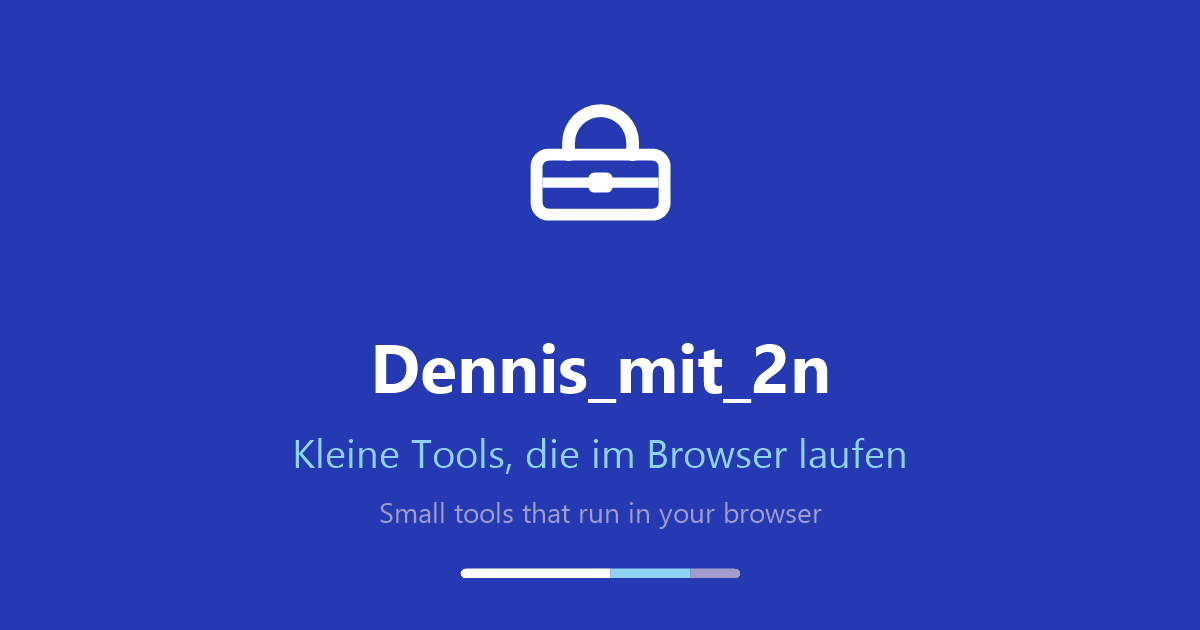
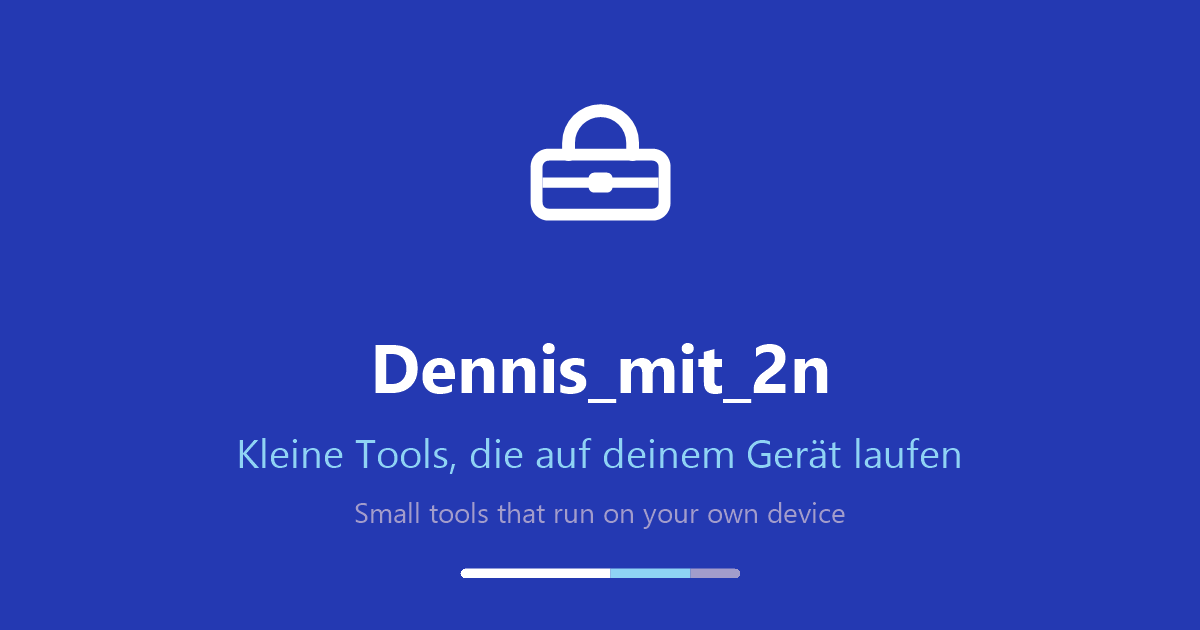
Überschrift verspricht nicht mehr „im Browser"
Mit Real_RAM_cooler ist das erste Werkzeug eine Windows-Anwendung — die H1
war damit unwahr. Neu: „Kleine Tools, die auf deinem Gerät laufen". Das deckt
Browser und Windows ab und hält weiter das Versprechen, dass die Daten das
Gerät nicht verlassen; es bleibt auch gültig, falls später eine Handy-App
dazukommt.

Geändert sind H1 und Seitentitel in allen zwölf Sprachen (je eine
Muttersprach-Übersetzung plus unabhängiger Review), Meta-Beschreibung und
og-Tags, der README-Einstieg sowie promo.png, in das der alte Satz
eingebrannt war.

Die Beschreibung von shrinkling nennt weiterhin den Browser — dieses
Werkzeug läuft ja tatsächlich dort.

Changed region(s): [[0.185, 0.6937, 0.8017, 0.754], [0.3083, 0.7841, 0.7092, 0.8444]]

diff --git a/js/i18n.js b/js/i18n.js
@@ -8,8 +8,8 @@
 var I18N = {
   de: {
     _name: 'Deutsch',
-    pageTitle: 'Dennis_mit_2n · Kleine Browser-Tools',
-    heroTitle: 'Kleine Tools, die im Browser laufen',
+    pageTitle: 'Dennis_mit_2n · Kleine Tools',
+    heroTitle: 'Kleine Tools, die auf deinem Gerät laufen',
     heroSubtitle: 'Eine Werkstatt von Dennis_mit_2n.',
     heroPledge: 'Qualität, Sicherheit und Privatsphäre stehen hier an erster Stelle – deine Daten bleiben auf deinem Gerät!',
     toolboxHeading: 'Die Werkzeugkiste',
@@ -36,8 +36,8 @@ var I18N = {
   },
   en: {
     _name: 'English',
-    pageTitle: 'Dennis_mit_2n · Small browser tools',
-    heroTitle: 'Small tools that run in your browser',
+    pageTitle: 'Dennis_mit_2n · Small tools',
+    heroTitle: 'Small tools that run on your own device',
     heroSubtitle: 'A workshop by Dennis_mit_2n.',
     heroPledge: 'Quality, security and privacy come first – your data stays on your device!',
     toolboxHeading: 'The toolbox',
@@ -64,8 +64,8 @@ var I18N = {
   },
   es: {
     _name: 'Español',
-    pageTitle: 'Dennis_mit_2n · Pequeñas herramientas para el navegador',
-    heroTitle: 'Pequeñas herramientas que funcionan en tu navegador',
+    pageTitle: 'Dennis_mit_2n · Pequeñas herramientas',
+    heroTitle: 'Pequeñas herramientas que funcionan en tu propio equipo',
     heroSubtitle: 'Un taller de Dennis_mit_2n.',
     heroPledge: 'Aquí la calidad, la seguridad y la privacidad son lo primero: ¡tus datos se quedan en tu dispositivo!',
     toolboxHeading: 'La caja de herramientas',
@@ -92,8 +92,8 @@ var I18N = {
   },
   fr: {
     _name: 'Français',
-    pageTitle: 'Dennis_mit_2n · Petits outils pour le navigateur',
-    heroTitle: 'De petits outils qui tournent dans votre navigateur',
+    pageTitle: 'Dennis_mit_2n · Petits outils',
+    heroTitle: 'De petits outils qui tournent sur votre machine',
     heroSubtitle: 'Un atelier signé Dennis_mit_2n.',
     heroPledge: 'Qualité, sécurité et confidentialité avant tout – vos données restent sur votre appareil !',
     toolboxHeading: 'La boîte à outils',
@@ -120,8 +120,8 @@ var I18N = {
   },
   it: {
     _name: 'Italiano',
-    pageTitle: 'Dennis_mit_2n · Piccoli strumenti per il browser',
-    heroTitle: 'Piccoli strumenti che girano nel browser',
+    pageTitle: 'Dennis_mit_2n · Piccoli strumenti',
+    heroTitle: 'Piccoli strumenti che girano in locale, non nel cloud',
     heroSubtitle: "Un'officina di Dennis_mit_2n.",
     heroPledge: 'Qualità, sicurezza e privacy prima di tutto: i tuoi dati restano sul tuo dispositivo!',
     toolboxHeading: 'La cassetta degli attrezzi',
@@ -148,8 +148,8 @@ var I18N = {
   },
   pt: {
     _name: 'Português',
-    pageTitle: 'Dennis_mit_2n · Pequenas ferramentas no navegador',
-    heroTitle: 'Pequenas ferramentas que rodam no seu navegador',
+    pageTitle: 'Dennis_mit_2n · Pequenas ferramentas',
+    heroTitle: 'Pequenas ferramentas que rodam no seu aparelho',
     heroSubtitle: 'Uma oficina de Dennis_mit_2n.',
     heroPledge: 'Qualidade, segurança e privacidade em primeiro lugar — seus dados ficam no seu dispositivo!',
     toolboxHeading: 'A caixa de ferramentas',
@@ -176,8 +176,8 @@ var I18N = {
   },
   tr: {
     _name: 'Türkçe',
-    pageTitle: 'Dennis_mit_2n · Küçük tarayıcı araçları',
-    heroTitle: 'Tarayıcınızda çalışan küçük araçlar',
+    pageTitle: 'Dennis_mit_2n · Küçük araçlar',
+    heroTitle: 'Kendi aygıtınızda çalışan küçük araçlar',
     heroSubtitle: "Dennis_mit_2n'nin atölyesi.",
     heroPledge: 'Burada kalite, güvenlik ve gizlilik her şeyden önce gelir – verileriniz cihazınızda kalır!',
     toolboxHeading: 'Alet çantası',
@@ -204,8 +204,8 @@ var I18N = {
   },
   ru: {
     _name: 'Русский',
-    pageTitle: 'Dennis_mit_2n · Маленькие браузерные инструменты',
-    heroTitle: 'Маленькие инструменты, работающие прямо в браузере',
+    pageTitle: 'Dennis_mit_2n · Небольшие инструменты',
+    heroTitle: 'Небольшие инструменты, которые работают у вас, а не в облаке',
     heroSubtitle: 'Мастерская Dennis_mit_2n.',
     heroPledge: 'Качество, безопасность и приватность прежде всего — ваши данные остаются на вашем устройстве!',
     toolboxHeading: 'Ящик с инструментами',
@@ -232,8 +232,8 @@ var I18N = {
   },
   hi: {
     _name: 'हिन्दी',
-    pageTitle: 'Dennis_mit_2n · छोटे ब्राउज़र टूल',
-    heroTitle: 'छोटे टूल, जो सीधे आपके ब्राउज़र में चलते हैं',
+    pageTitle: 'Dennis_mit_2n · छोटे औज़ार',
+    heroTitle: 'छोटे औज़ार, जो आपके अपने डिवाइस पर चलते हैं',
     heroSubtitle: 'Dennis_mit_2n की एक वर्कशॉप।',
     heroPledge: 'यहाँ क्वालिटी, सुरक्षा और प्राइवेसी सबसे पहले आती हैं – आपका डेटा आपके डिवाइस पर ही रहता है!',
     toolboxHeading: 'औज़ारों की पेटी',
@@ -260,8 +260,8 @@ var I18N = {
   },
   zh: {
     _name: '中文',
-    pageTitle: 'Dennis_mit_2n · 浏览器小工具',
-    heroTitle: '直接在浏览器中运行的小工具',
+    pageTitle: 'Dennis_mit_2n · 小工具',
+    heroTitle: '小工具，都在本机运行',
     heroSubtitle: 'Dennis_mit_2n 的工坊。',
     heroPledge: '质量、安全与隐私在这里永远排第一——你的数据只留在你自己的设备上！',
     toolboxHeading: '工具箱',
@@ -288,8 +288,8 @@ var I18N = {
   },
   ja: {
     _name: '日本語',
-    pageTitle: 'Dennis_mit_2n · 小さなブラウザツール',
-    heroTitle: 'ブラウザで動く小さなツールたち',
+    pageTitle: 'Dennis_mit_2n · 小さなツール',
+    heroTitle: '手元で動く、小さなツール',
     heroSubtitle: 'Dennis_mit_2nの工房です。',
     heroPledge: '品質・セキュリティ・プライバシーを何より大切にしています。あなたのデータは端末の外に出ません！',
     toolboxHeading: '道具箱',
@@ -316,8 +316,8 @@ var I18N = {
   },
   ko: {
     _name: '한국어',
-    pageTitle: 'Dennis_mit_2n · 작은 브라우저 도구들',
-    heroTitle: '브라우저에서 바로 돌아가는 작은 도구들',
+    pageTitle: 'Dennis_mit_2n · 작은 도구들',
+    heroTitle: '내 디바이스에서 돌아가는 작은 도구들',
     heroSubtitle: 'Dennis_mit_2n의 작업실.',
     heroPledge: '품질, 보안, 프라이버시가 최우선 — 데이터는 기기 밖으로 나가지 않아요!',
     toolboxHeading: '도구 상자',

diff --git a/index.html b/index.html
@@ -3,12 +3,12 @@
 <head>
   <meta charset="UTF-8">
   <meta name="viewport" content="width=device-width, initial-scale=1">
-  <title>Dennis_mit_2n · Small browser tools</title>
-  <meta name="description" content="Small free tools that run entirely in your browser – no uploads, no sign-up. / Kleine kostenlose Tools, die komplett im Browser laufen – ohne Uploads, ohne Anmeldung.">
+  <title>Dennis_mit_2n · Small tools</title>
+  <meta name="description" content="Small free tools by Dennis_mit_2n – in your browser and for Windows. No sign-up, no uploads: your data stays on your device. / Kleine kostenlose Tools – im Browser und für Windows, ohne Anmeldung und ohne Uploads.">
   <link rel="canonical" href="https://dennismit2n.github.io/">
   <meta property="og:type" content="website">
-  <meta property="og:title" content="Dennis_mit_2n — small browser tools">
-  <meta property="og:description" content="A workshop of free tools that run entirely in your browser. Your data stays on your device.">
+  <meta property="og:title" content="Dennis_mit_2n — small tools">
+  <meta property="og:description" content="A workshop of free tools that run on your own device – in your browser and for Windows. Your data stays with you.">
   <meta property="og:url" content="https://dennismit2n.github.io/">
   <meta property="og:image" content="https://dennismit2n.github.io/assets/promo.png">
   <meta name="twitter:card" content="summary_large_image">
@@ -50,7 +50,7 @@
 
   <main>
     <section class="hero">
-      <h1 data-i18n="heroTitle">Small tools that run in your browser</h1>
+      <h1 data-i18n="heroTitle">Small tools that run on your own device</h1>
       <p class="hero-sub" data-i18n="heroSubtitle">A workshop by Dennis_mit_2n.</p>
       <p class="pledge">
         <svg viewBox="0 0 24 24" width="18" height="18" aria-hidden="true"><path d="M12 2a5 5 0 0 0-5 5v3H6a2 2 0 0 0-2 2v8a2 2 0 0 0 2 2h12a2 2 0 0 0 2-2v-8a2 2 0 0 0-2-2h-1V7a5 5 0 0 0-5-5zm-3 8V7a3 3 0 1 1 6 0v3H9z" fill="currentColor"/></svg>

diff --git a/README.md b/README.md
@@ -1,8 +1,8 @@
 # dennismit2n.github.io
 
-Landing page for the small browser tools by Dennis_mit_2n — free, no sign-up, no uploads. Your data stays on your device.
+Landing page for the small tools by Dennis_mit_2n — in your browser and for Windows, free, no sign-up, no uploads. Your data stays on your device.
 
-Startseite für die kleinen Browser-Tools von Dennis_mit_2n — kostenlos, ohne Anmeldung, ohne Uploads. Deine Daten bleiben auf deinem Gerät.
+Startseite für die kleinen Tools von Dennis_mit_2n — im Browser und für Windows, kostenlos, ohne Anmeldung, ohne Uploads. Deine Daten bleiben auf deinem Gerät.
 
 ## Tools
 
